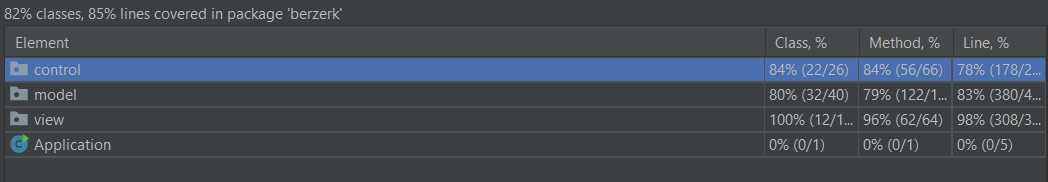
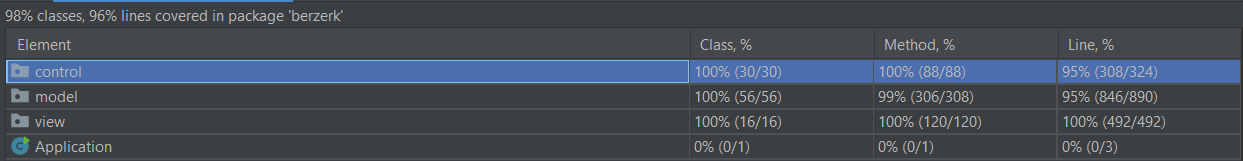
Melhoria Relatório

diff --git a/docs/README.md b/docs/README.md
@@ -10,29 +10,30 @@ Este projeto foi desenvolvido por *Catarina Canelas* (*up202103631*@fe.up.pt), *
 
 ### IMPLEMENTED FEATURES
 
-- **Menus** - A navegação é feita através das setas do teclado e a opção a selecionar com Enter.
-    - PLAY;
-    - SETTINGS;
-    - LEADERBOARD;
-    - EXIT.
-- **Leaderboard** - Possibilidade de ver o ‘top’ 5 de melhores jogadores.
-- **Escolha de Herói** - Possibilidade de escolher o herói com que se pretende jogar, na opção 'SETTINGS'. Cada herói tem as suas particularidades.
-    - Herói Recruit - Herói com Estatisticas Básicas.
-    - Herói Tanky - Herói com pontos Extra de Vida.
-    - Herói Expert - Herói com cadência de tiro mais elevada.
-- **Movimentação do Herói** - O herói movimenta-se para os quatro sentidos usando as setas do teclado.
-- **Morte do Herói** - O herói morre se tiver contacto com as paredes eletrizadas, com os monstros ou com as balas destes.
-- **Movimentação dos Monstros** - Os monstros movimentam-se sozinhos. Com o avançar dos niveis, podem movimentar-se mais rapidamente.
+- [x] **Menus** - A navegação é feita através das setas do teclado e a opção a selecionar com Enter.
+  - PLAY;
+  - SETTINGS;
+  - LEADERBOARD;
+  - EXIT.
+- [x] **Leaderboard** - Possibilidade de ver o ‘top’ 5 de melhores jogadores.
+- [x] **Escolha de Herói** - Possibilidade de escolher o herói com que se pretende jogar, na opção 'SETTINGS'. Cada herói tem as suas particularidades.
+  - Herói Recruit - Herói com Estatisticas Básicas.
+  - Herói Tanky - Herói com pontos Extra de Vida.
+  - Herói Expert - Herói com cadência de tiro mais elevada.
+- [x] **Movimentação do Herói** - O herói movimenta-se para os quatro sentidos usando as setas do teclado.
+- [x] **Morte do Herói** - O herói morre se tiver contacto com as paredes eletrizadas, com os monstros ou com as balas destes.
+- [x] **Movimentação dos Monstros** - Os monstros movimentam-se sozinhos. Com o avançar dos niveis, podem movimentar-se mais rapidamente.
+- [x] **Disparos do Herói** - O herói pode disparar usando o espaço do teclado.
+- [x] **Construção de stones** - O herói pode criar stones estilo FORTNITE 2D usando a tecla x para se proteger dos tiros dos inimigos.
+- [x] **Disparos dos Monstros** - Os monstros podem disparar balas a partir do nivel 2.
+- [x] **Morte dos Monstros** - Um monstro atingido por uma bala morre. Monstros em diferentes níveis podem necessitar de mais do que uma bala para morrerem.
+- [x] **Passagem de niveis** - A passagem de niveis dá-se com a chegada do herói à parte aberta do mapa. No último nivel, o objetivo é apanhar a taça do jogo.
+- [ ] **Menu de Fim de Jogo** - Se o heroi morrer ou chegar ao fim do jogo aparece GAME OVER e o SCORE conseguido e é-lhe permitido registar o nome, e de seguida um menu com as opções TRY AGAIN e EXIT.
 
 
 ### PLANNED FEATURES
-- **Disparos do Herói** - O herói pode disparar usando o espaço do teclado.
-- **Disparos dos Monstros** - Os monstros podem disparar balas a partir do nivel 2.
-- **Morte dos Monstros** - Um monstro atingido por uma bala morre. Monstros em diferentes níveis podem necessitar de mais do que uma bala para morrerem.
-- **Passagem de niveis** - A passagem de niveis dá-se com a chegada do herói à parte aberta do mapa. No último nivel, o objetivo é apanhar a taça do jogo.
-- **Interrupção do jogo** - Usando a tecla 'esc' do teclado é possivel parar o jogo e aceder a um Menu.
-- **Menu de Fim de Jogo** - Se o heroi morrer ou chegar ao fim do jogo aparece GAME OVER e o SCORE conseguido e é-lhe permitido registar o nome, e de seguida um menu com as opções TRY AGAIN e EXIT.
 
+- **Interrupção do jogo** - Usando a tecla 'esc' do teclado é possivel parar o jogo e aceder a um Menu.
 
 ### DESIGN
 
@@ -136,6 +137,12 @@ O uso do Padrão Abstract Factory abre caminho aos seguintes benefícios:
 - A responsabilidade de criação de novas instâncias de menus é atribuida a apenas uma classe, deixando o código das ;
 - O código para instanciar um estado do menu é reduzido a 1 método por estado.
 
+#### CRIAR TIPOS DIFERENTES DE INIMIGOS
+
+**Contexto do Problema**
+
+O jogo deve ter tipos diferentes de inimigos com capacidades e bonus de morte diferentes.
+
 **O Padrão**
 
 Aplicamos o Padrão **Factory Method**.
@@ -188,6 +195,12 @@ O uso do Padrão Command abre caminho aos seguintes benefícios:
 - *Single Responsibility Principle*. Agora as classes que dependem de *inputs* estão livres destas operações.
 - *Open/Closed Principle*. É possível acrescentar comandos sem prejudicar o funcionamento do resto da aplicação.
 
+#### CRIAÇÃO DE TODOS OS TIPOS DE INIMIGOS NUMA SÓ CLASSE
+
+**Contexto do Problema**
+
+A classe GameModel encontrava-se com mais de 400 linha de código, sem necessidade. Aplicamos este padrão e passamos a criar todos os inimigos numa classe.
+
 **O Padrão**
 
 Aplicamos o Padrão **Composite**.
@@ -210,6 +223,12 @@ Estas Classes podem ser encontradas nos seguintes ficheiros:
 O uso do Padrão Composite abre caminho aos seguintes benefícios:
 - Uma só classe permite criar todos os tipos de inimigos de uma vez só assim como gerir as suas funções.
 - Usar o padrão Composite faz sentido apenas quando o modelo central de sua aplicação pode ser representada como uma árvore e mesmo a situação explicada não representar uma árvore com muitos ramos e uma grande altura, o padrão Composite permitiu simplificar muito o nosso projeto e facilitar a potencial opção de criar novos inimigos com diferentes caraterísticas.
+
+#### APRENSENTAR MENU QUANDO JOGADOR MORRE
+
+**Contexto do Problema**
+
+O menu de GAME OVER deve ser apresentado quando o jogador perde todas as vidas.
 
 **O Padrão**
 
@@ -234,11 +253,18 @@ O uso do Padrão Observer abre caminho aos seguintes benefícios:
 - Passamos a ter um mecanismo que notifica o GameState sobre as propriedades do Hero, que por sua vez estão dependentes do Shooter e Enemies.
 - Como se pode imaginar, ter ser uma função a ser chamada para confirmar as vidas do Hero é totalmente inviável e , desta forma, não temos que o fazer, estando o GameState como "observador" do Hero.
 
+## Code Smells
+
+#### **Possivel aplicação do padrao Strategie**
+Para a movimentação de cada tipo de inimigo podiamos ter aplicado o padrão Strategie.
+
+## Refactoring
+
 ### TESTING
 
 ![img](images/CoverageReportGeral.png)
 
-[//]: # (- Link to mutation testing report. - todo)
+![img](images/PitTests.png)
 
 ### SELF-EVALUATION
 - Catarina Canelas: 33.3%
